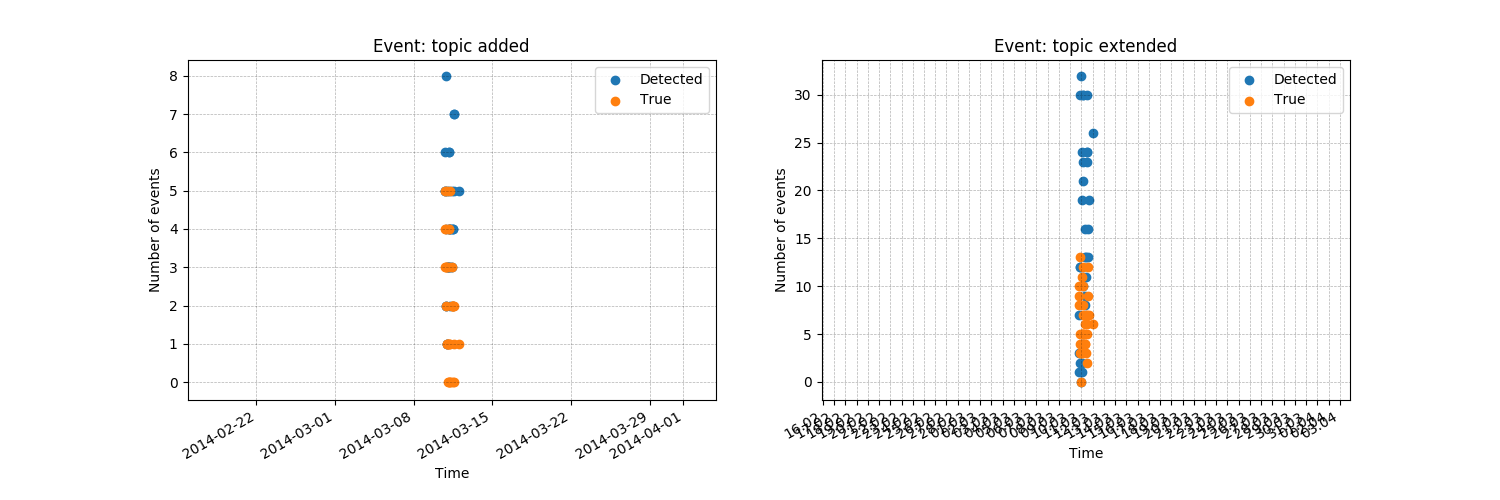
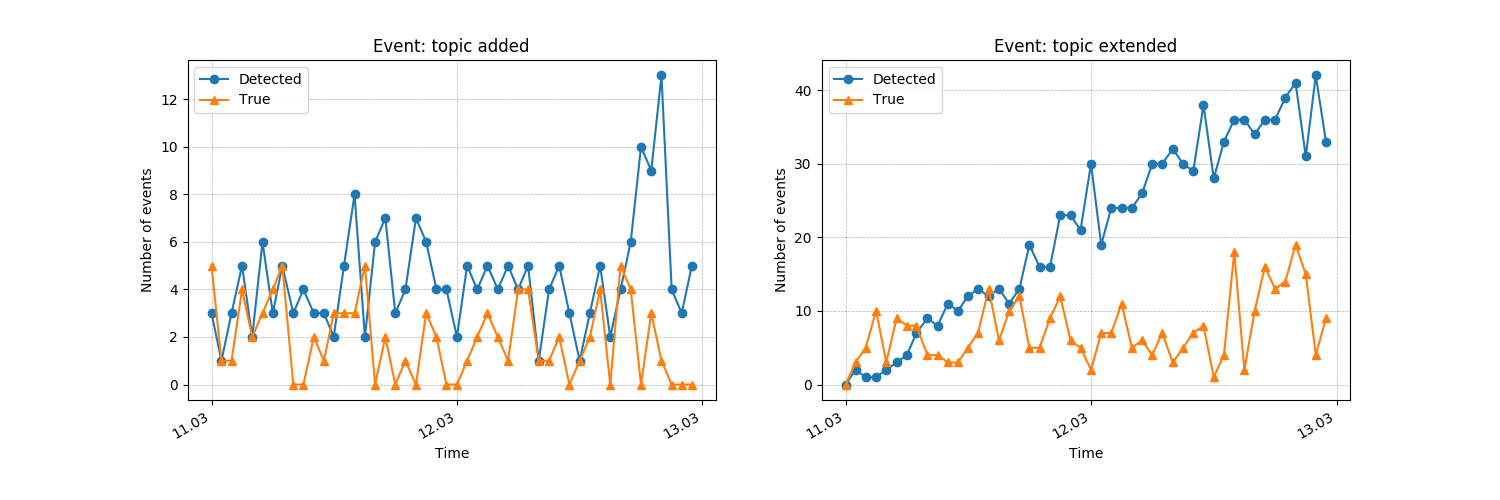
Change back to line plots

diff --git a/app/data_processing/plots.py b/app/data_processing/plots.py
@@ -304,12 +304,12 @@ def plot_event_detection_by_date():
     fig = plt.figure(figsize=(15, 5))
 
     plt.subplot(1, 2, 1)
-    plt.scatter(X, Y_pred_add_events, label="Detected")
-    plt.scatter(X, Y_true_add_events, label="True")
+    plt.plot(X, Y_pred_add_events,  '-o', label="Detected")
+    plt.plot(X, Y_true_add_events,  '-^', label="True")
 
-    #plt.gca().xaxis.set_major_formatter(mdates.DateFormatter("%d.%m"))
-    #plt.gca().xaxis.set_major_locator(mdates.DayLocator())
-    #plt.gcf().autofmt_xdate()
+    plt.gca().xaxis.set_major_formatter(mdates.DateFormatter("%d.%m"))
+    plt.gca().xaxis.set_major_locator(mdates.DayLocator())
+    plt.gcf().autofmt_xdate()
 
     plt.xlabel("Time")
     plt.ylabel("Number of events")
@@ -319,8 +319,8 @@ def plot_event_detection_by_date():
 
     plt.subplot(1, 2, 2)
 
-    plt.scatter(X, Y_pred_change_events, label="Detected")
-    plt.scatter(X, Y_true_change_events, label="True")
+    plt.plot(X, Y_pred_change_events,  '-o', label="Detected")
+    plt.plot(X, Y_true_change_events,  '-^', label="True")
 
     plt.gca().xaxis.set_major_formatter(mdates.DateFormatter("%d.%m"))
     plt.gca().xaxis.set_major_locator(mdates.DayLocator())
